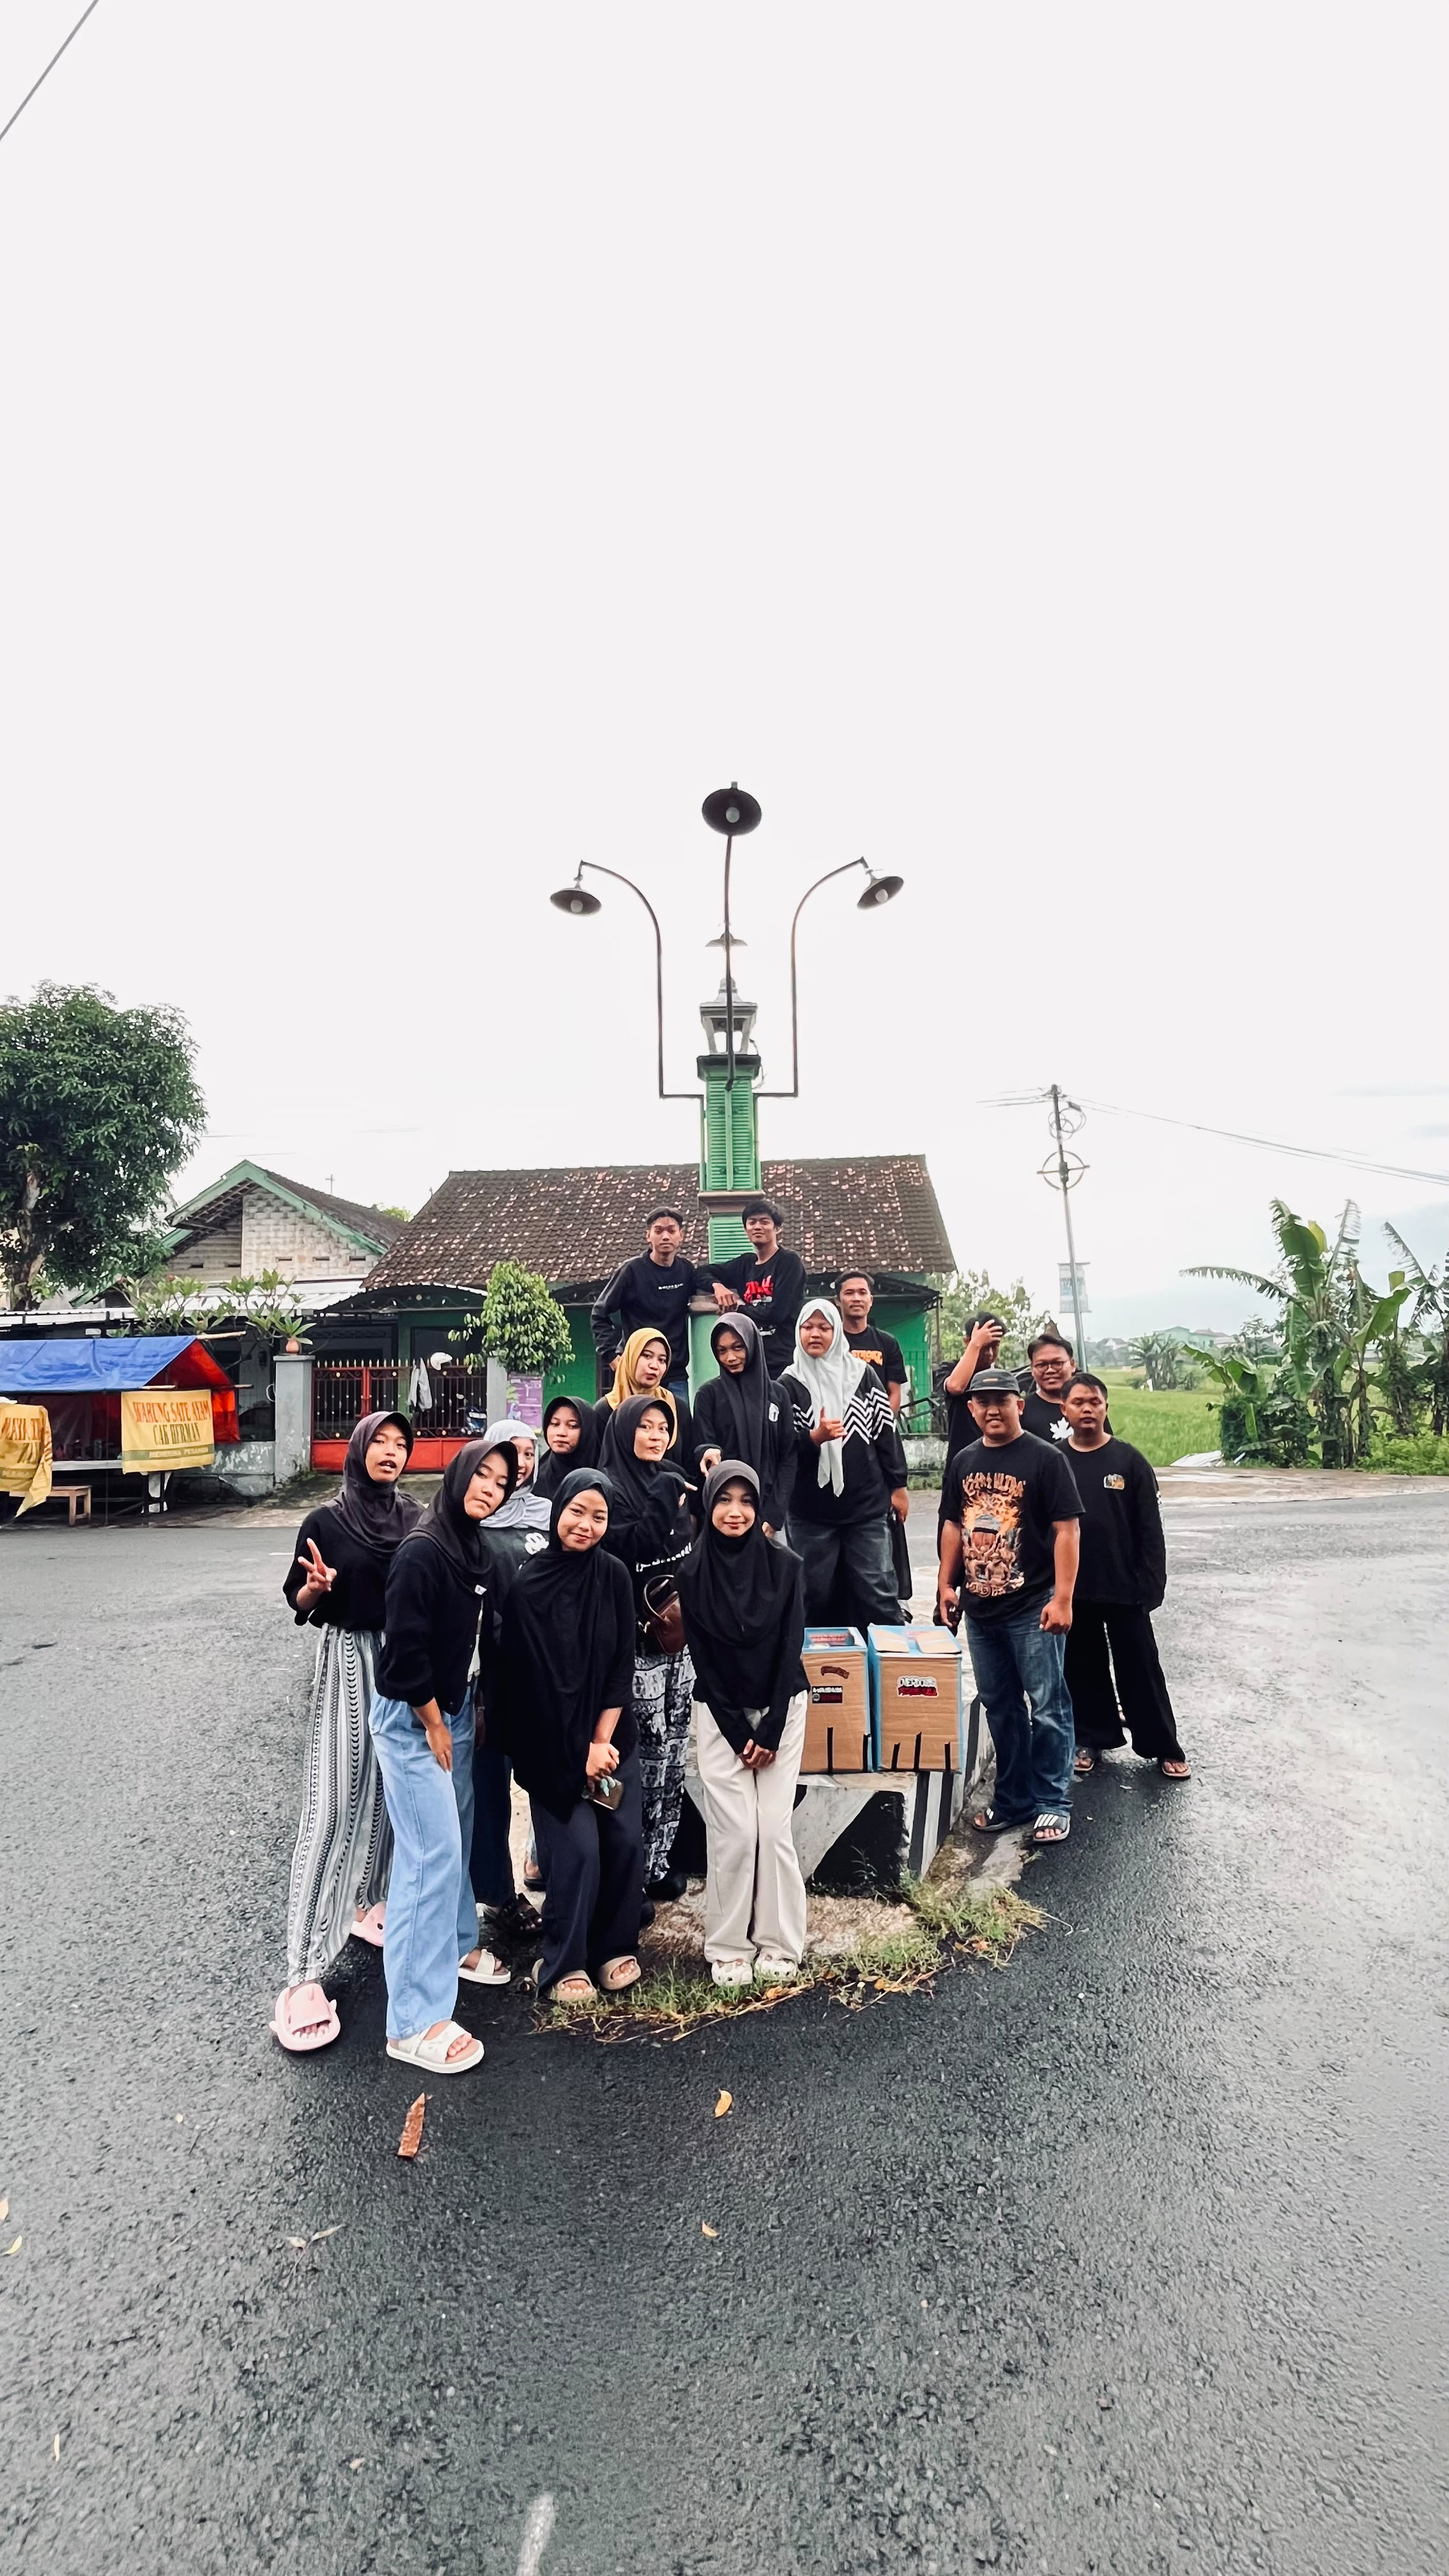
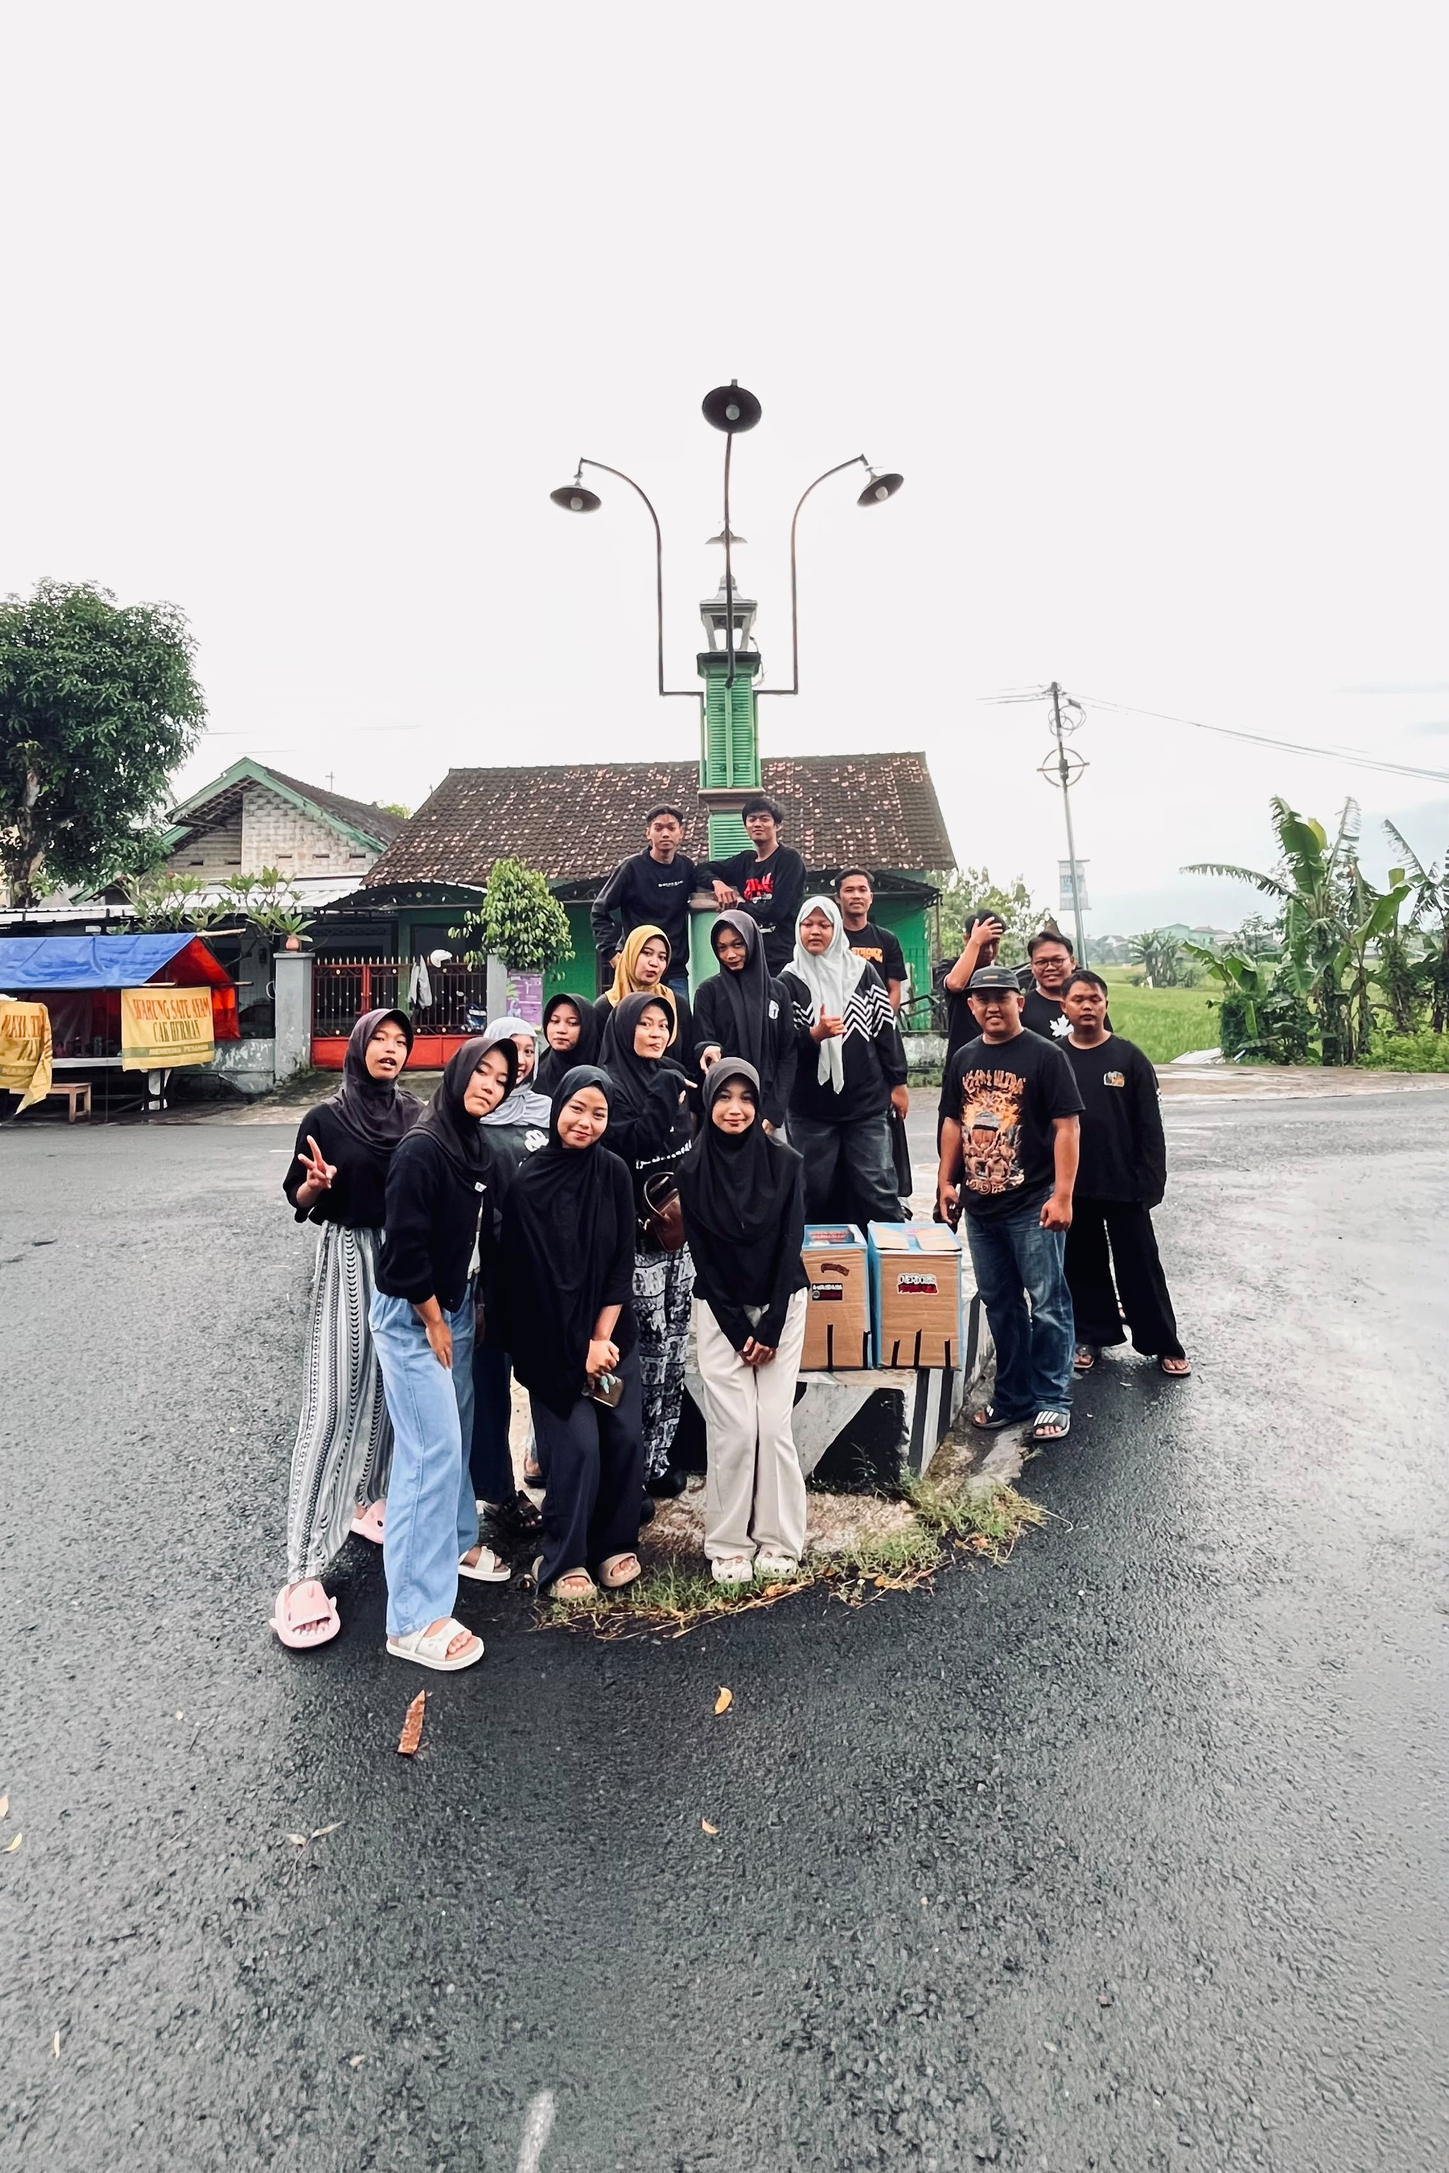
revisi HumasController

diff --git a/resources/views/welcome.blade.php b/resources/views/welcome.blade.php
@@ -88,7 +88,7 @@
         <div class="slide absolute inset-0 bg-cover bg-center opacity-0 transition-opacity duration-1000 transform scale-105" style="background-image: url('{{ asset('images/bg2.jpeg') }}');"></div>
         <div class="slide absolute inset-0 bg-cover bg-center opacity-0 transition-opacity duration-1000 transform scale-105" style="background-image: url('{{ asset('images/bg3.jpeg') }}');"></div>
         <div class="slide absolute inset-0 bg-cover bg-center opacity-0 transition-opacity duration-1000 transform scale-105" style="background-image: url('{{ asset('images/bg4.jpeg') }}');"></div>
-        <div class="slide absolute inset-0 bg-cover bg-center opacity-0 transition-opacity duration-1000 transform scale-105" style="background-image: url('{{ asset('images/bg4.jpeg') }}');"></div>
+        <div class="slide absolute inset-0 bg-cover bg-center opacity-0 transition-opacity duration-1000 transform scale-105" style="background-image: url('{{ asset('images/bg5.jpeg') }}');"></div>
 
         <div class="absolute inset-0 bg-gradient-to-r from-gray-950/80 via-gray-900/70 to-gray-950/80"></div>
         <div class="absolute top-0 right-0 w-96 h-96 bg-red-600 rounded-full mix-blend-multiply filter blur-3xl opacity-30 animate-blob"></div>

diff --git a/app/Http/Controllers/HumasController.php b/app/Http/Controllers/HumasController.php
@@ -197,14 +197,14 @@ class HumasController extends Controller
     public function manajemenIuran()
 {
     // 1. Ambil ID pertemuan/kumpulan terakhir yang sudah selesai
-    $pertemuanTerakhir = Pertemuan::latest('tanggal')->first();
+    $pertemuanTerakhir = \App\Models\MeetingAgenda::latest('tanggal')->first();
 
     // 2. Ambil semua data pemuda
     $daftarPemuda = Anggota::all()->map(function($pemuda) use ($pertemuanTerakhir) {
         
         // 3. Cek apakah di pertemuan terakhir, pemuda ini setorannya 0 atau tidak hadir
         $cekSetoran = Iuran::where('anggota_id', $pemuda->id)
-                           ->where('pertemuan_id', $pertemuanTerakhir->id)
+                            ->where('tanggal', $pertemuanTerakhir->tanggal)
                            ->first();
         
         // Jika data setoran tidak ada ATAU total setorannya 0, tandai sebagai nunggak
